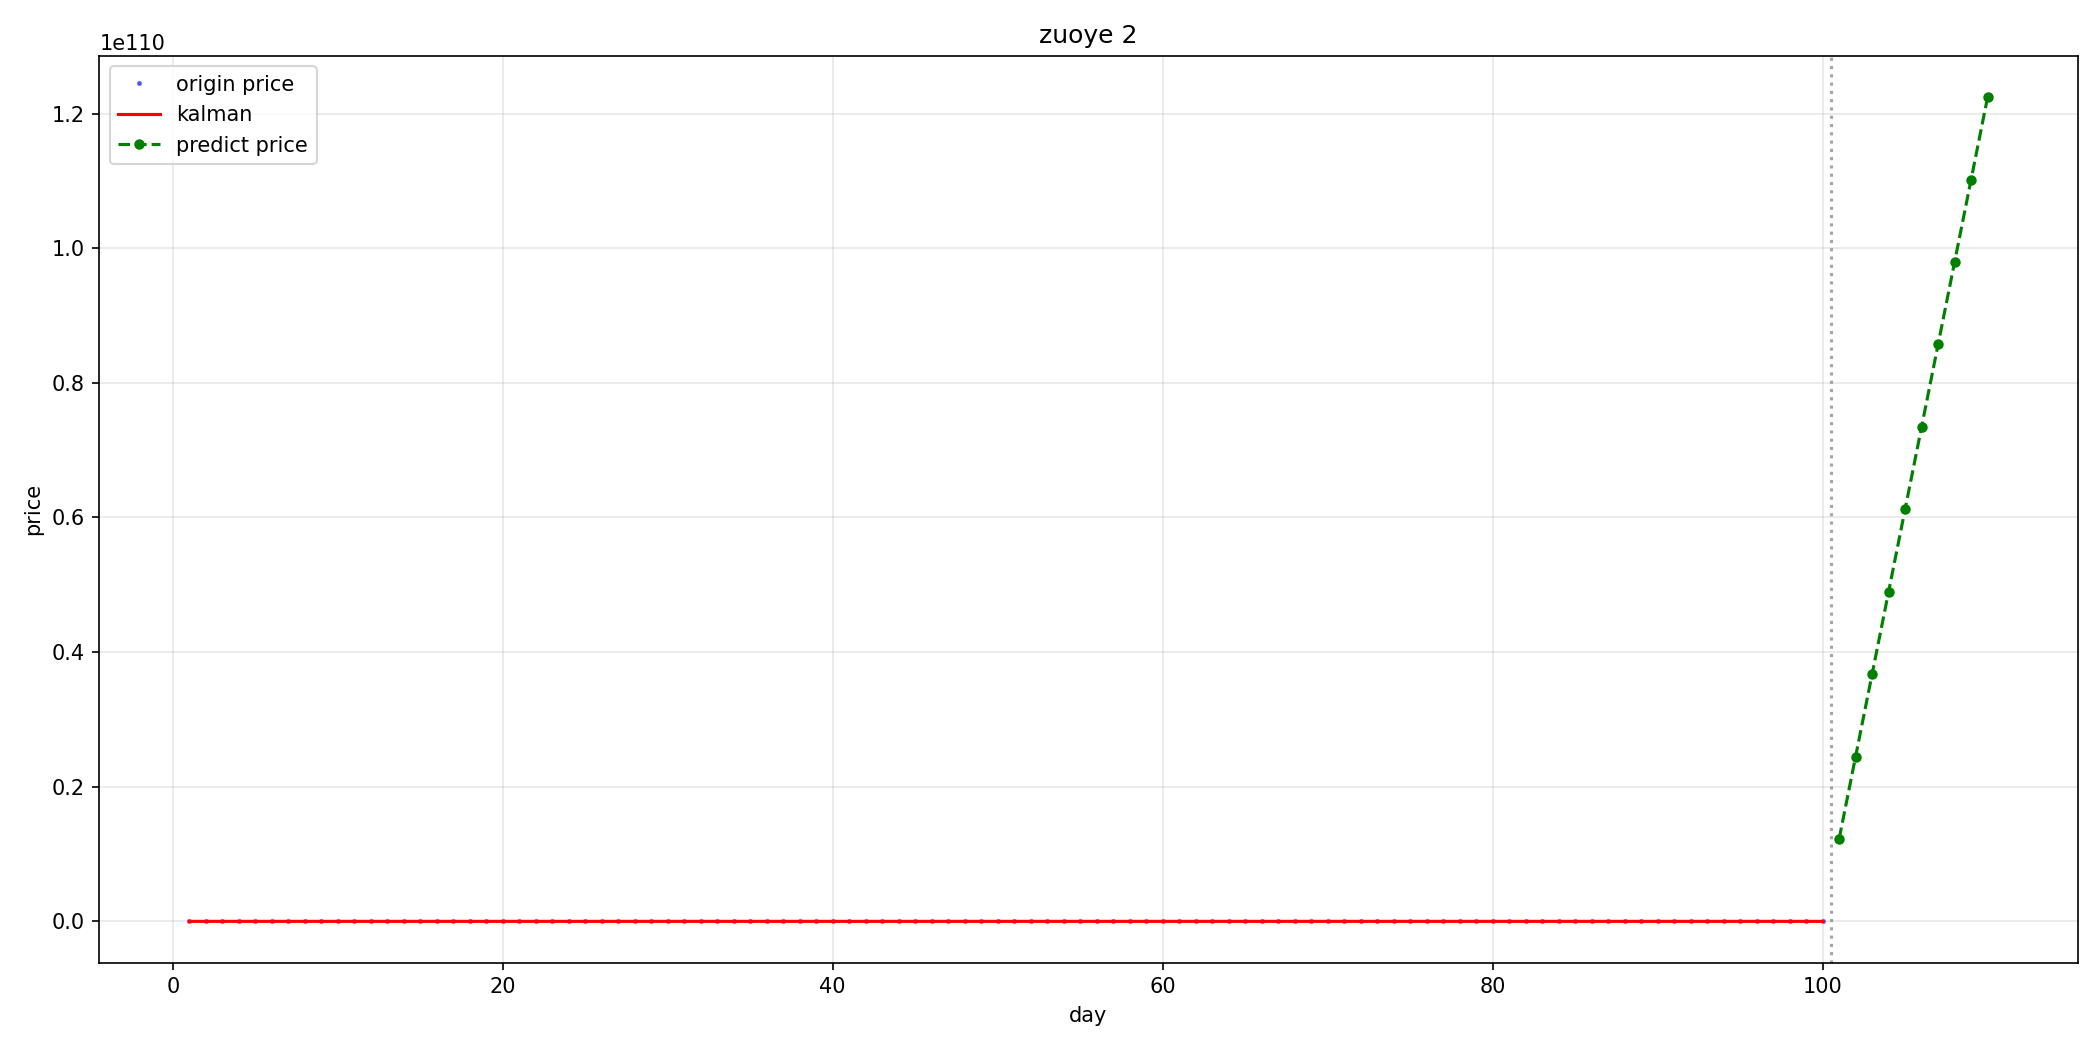
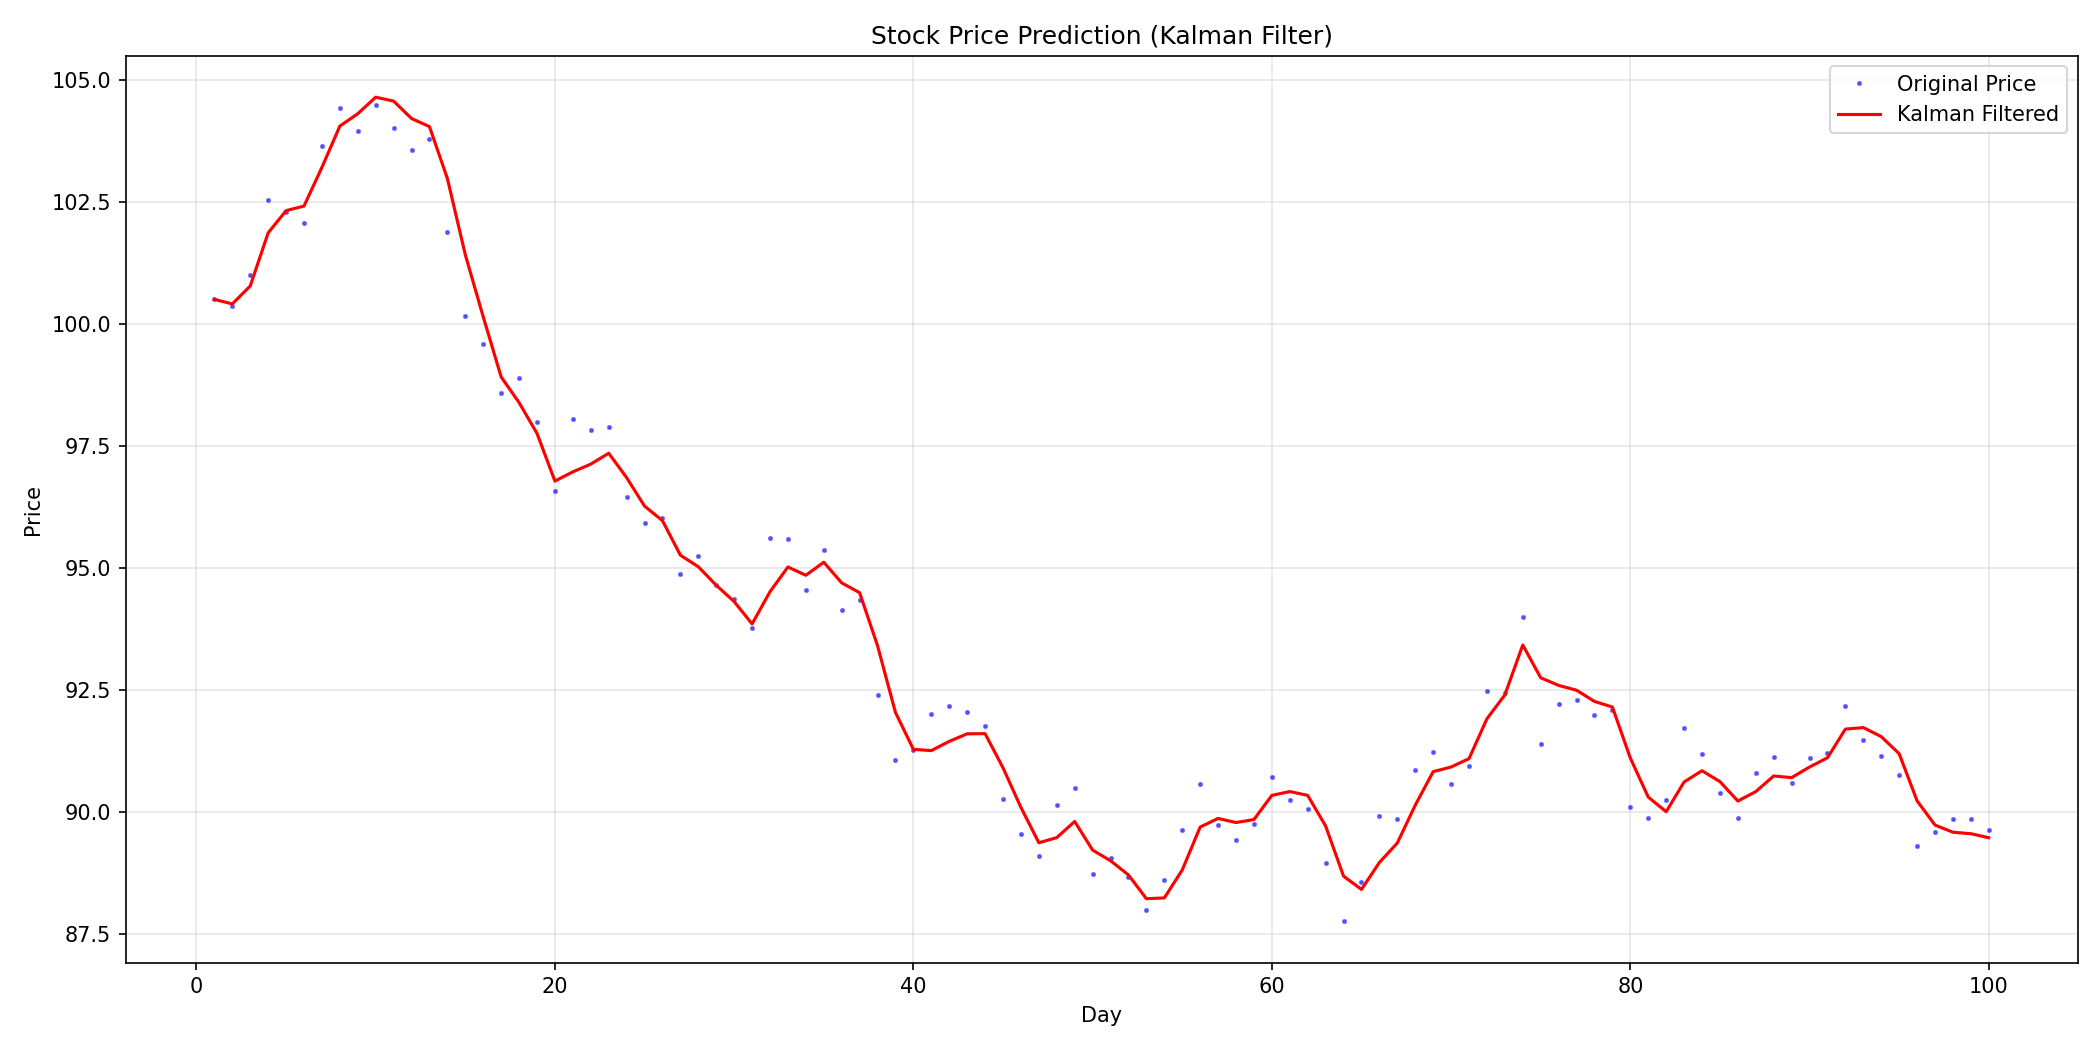
改了一下卡尔曼作业2的参数

diff --git a/kalman/zuoye2.cpp b/kalman/zuoye2.cpp
@@ -2,11 +2,10 @@
 #include <fstream>
 #include <vector>
 #include <string>
-#include <sstream>
 
 class KalmanFilter2D {
 private:
-    double x1, x2;  // 价格, 变化率
+    double x1, x2;
     double P11, P12, P21, P22;
     double Q11, Q22, R;
 public:
@@ -16,7 +15,6 @@ public:
     
     void predict() {
         x1 = x1 + x2;
-        // x2 = x2;
         P11 = P11 + 2*P12 + P22 + Q11;
         P12 = P12 + P22;
         P21 = P21 + P22;
@@ -24,15 +22,22 @@ public:
     }
     
     void update(double z) {
-        double K1 = P11 / (P11 + R);
-        double K2 = P21 / (P11 + R);
+        double denom = P11 + R;
+        double K1 = P11 / denom;
+        double K2 = P21 / denom;
         double res = z - x1;
         x1 = x1 + K1 * res;
         x2 = x2 + K2 * res;
-        P11 = P11 - K1 * P11;
-        P12 = P12 - K1 * P12;
-        P21 = P21 - K2 * P11;
-        P22 = P22 - K2 * P12;
+        
+        double new_P11 = P11 - K1 * P11;
+        double new_P12 = P12 - K1 * P12;
+        double new_P21 = P21 - K2 * P11;
+        double new_P22 = P22 - K2 * P12;
+        
+        P11 = new_P11;
+        P12 = new_P12;
+        P21 = new_P21;
+        P22 = new_P22;
     }
     
     double filter(double z) {
@@ -41,56 +46,62 @@ public:
         return x1;
     }
     
-    double predictFuture(int steps) {
-        return x1 + x2 * steps;
-    }
-    
     double getRate() { return x2; }
+    double getPrice() { return x1; }
 };
 
 int main() {
     std::ifstream file("kalman_filter/stock_prices.csv");
     if (!file.is_open()) {
-        std::cout << "无法打开文件\n";
+        std::cout << "Cannot open file" << std::endl;
         return 1;
     }
     
     std::vector<double> prices;
     std::string line;
-    bool first = true;
+    bool first_line = true;
     while (std::getline(file, line)) {
-        if (first) { first = false; continue; }  // 跳过表头
+        if (first_line) {
+            first_line = false;
+            continue;
+        }
         if (line.empty()) continue;
+        
         size_t comma = line.find(',');
         double price = std::stod(line.substr(comma + 1));
         prices.push_back(price);
     }
     file.close();
     
-    KalmanFilter2D kf(0.01, 0.001, 1.0, prices[0], 10.0);
+    KalmanFilter2D kf(0.001, 0.5, 10.0, prices[0], 10.0);
+    
     std::vector<double> filtered;
     for (double p : prices) {
         filtered.push_back(kf.filter(p));
     }
     
     int predict_days = 10;
-    std::cout << "\n未来 " << predict_days << " 天预测:\n";
+    std::vector<double> predictions;
+    double future_price = filtered.back();
+    double future_rate = kf.getRate();
+    
     for (int i = 1; i <= predict_days; i++) {
-        std::cout << "第 " << i << " 天: " << kf.predictFuture(i) << std::endl;
+        future_price = future_price + future_rate;
+        predictions.push_back(future_price);
     }
     
-    // 保存CSV
     std::ofstream out("zuoye2_result.csv");
-    out << "day,original,filtered,prediction\n";
+    out << "day,original,filtered,prediction" << std::endl;
+    
     for (size_t i = 0; i < prices.size(); i++) {
-        out << i+1 << "," << prices[i] << "," << filtered[i] << ",\n";
+        out << i+1 << "," << prices[i] << "," << filtered[i] << "," << std::endl;
     }
-    for (int i = 1; i <= predict_days; i++) {
-        out << prices.size() + i << ",,," << kf.predictFuture(i) << "\n";
-    }
+    
+    
     out.close();
     
-    std::cout << "\n结果已保存,运行 python zuoye2.py 画图" << std::endl;
+    std::cout << "Saved to zuoye2_result.csv" << std::endl;
+    std::cout << "Run: python3 zuoye2.py" << std::endl;
     
     return 0;
 }

diff --git a/kalman/zuoye2.py b/kalman/zuoye2.py
@@ -4,22 +4,20 @@ import matplotlib.pyplot as plt
 
 df = pd.read_csv('zuoye2_result.csv')
 
-hist = df[df['prediction'].isna()]
-pred = df[~df['prediction'].isna()]
+historical = df[df['prediction'].isna()]
+prediction = df[~df['prediction'].isna()]
 
 plt.figure(figsize=(14, 7))
-plt.plot(hist['day'], hist['original'], 'b.', markersize=3, alpha=0.5, label='origin price')
-plt.plot(hist['day'], hist['filtered'], 'r-', linewidth=1.5, label='kalman')
 
-if len(pred) > 0:
-    plt.plot(pred['day'], pred['prediction'], 'g--', linewidth=1.5, marker='o', markersize=4, label='predict price')
-    plt.axvline(x=pred['day'].iloc[0] - 0.5, color='gray', linestyle=':', alpha=0.7)
+plt.plot(historical['day'], historical['original'], 'b.', markersize=3, alpha=0.5, label='Original Price')
 
-plt.xlabel('day')
-plt.ylabel('price')
-plt.title('zuoye 2')
+plt.plot(historical['day'], historical['filtered'], 'r-', linewidth=1.5, label='Kalman Filtered')
+
+plt.xlabel('Day')
+plt.ylabel('Price')
+plt.title('Stock Price Prediction (Kalman Filter)')
 plt.legend()
 plt.grid(True, alpha=0.3)
 plt.tight_layout()
 plt.savefig('zuoye2_result.png', dpi=150)
-print("图片已保存: zuoye2_result.png")
+print("Saved: zuoye2_result.png")